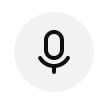
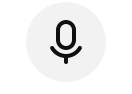
Added some features in the project

Changed region(s): [[0.3214, 0.2128, 0.6429, 0.7234]]

diff --git a/01-HTML/02-CSS/youtube.css b/01-HTML/02-CSS/youtube.css
@@ -30,20 +30,6 @@
     margin-bottom: 0px;
 }
 
-/* .search-bar{
-    font-size: 20px;
-    width: 500px;
-    border-radius: 200px;
-    border-style: solid;
-    border-width: 1px;
-    padding-left: 10px;
-    padding-right: 10px;
-    padding-bottom: 10px;
-    padding-top: 10px;
-} */
-
-/* font-weight: bold; */
-
 .video_info{
     margin-left: 10px;
 }
@@ -71,11 +57,12 @@
 .header{
     /* height: 40px; */
     display: flex;
-    justify-content: space-between;
+    align-items: center;
+    /* justify-content: space-between; */
 }
 
 .left-section{
-    background-color: lightblue;
+    /* background-color: lightblue; */
     width: 200px;
     display: flex;
     align-items: center;
@@ -84,25 +71,69 @@
 
 .Hamburger{
     width: 50px;
-    margin-right: 20px;
 }
 
 .Youtube{
-    width: 120px;
+    width: 150px;
 }
 
 .middle-section{
-    background-color: lightpink;
-    flex: 1;
-    /* margin-left: 100px; */
+    margin-left: 100px;
+    width: 400px;
     margin-right: 60px;
-    max-width: 400px;
-    /* padding-left: 30px; */
+}
+
+.mwork{
+    display: inline-block;
+    margin-top: 4px;
+    margin-left: 53px;
+    width: 0px;
+    margin-right: 69px;
+    width: 0px;
+}
+
+.sear, .mic{
+    background-color: transparent;
+    border: none;
+    cursor: pointer;
+}
+
+.mic:hover{
+    
+}
+
+.awork{
+    display: inline-table;
+    height: auto;
+}
+
+.Search{
+    /* margin-top: 20px; */
+    width: 50px;
+}
+
+.Mice{
+    margin-top: 10px;
+    width: 70px;
+}
+
+.search-bar{
+    display: inline-block;
+    font-size: 16px;
+    width: 560px;
+    border-radius: 200px;
+    border-style: solid;
+    border-width: 1px;
+    padding-left: 10px;
+    padding-right: 10px;
+    padding-bottom: 10px;
+    padding-top: 10px;
 }
 
 .right-section{
+    /* margin-left: 50px; */
     background-color: lightblue;
-    width: 250px;
+    width: 50px;
 }
 
 

diff --git a/01-HTML/01-html/youtube.html b/01-HTML/01-html/youtube.html
@@ -26,6 +26,17 @@
             <div class = "middle-section">
                 <input class = "search-bar" type = "text" placeholder = "Search">
             </div>
+            <div class = "mwork">
+                <button class = "sear">
+                    <img class = "Search" src = "../05-icons/Search.png">
+                </button>
+            </div>
+            <div class = "awork">
+                <button class = "mic">
+                    <img class = "Mice" src = "../05-icons/Mice.png">
+                </button>
+                
+            </div>
             
             <div class = "right-section">
                 right section
